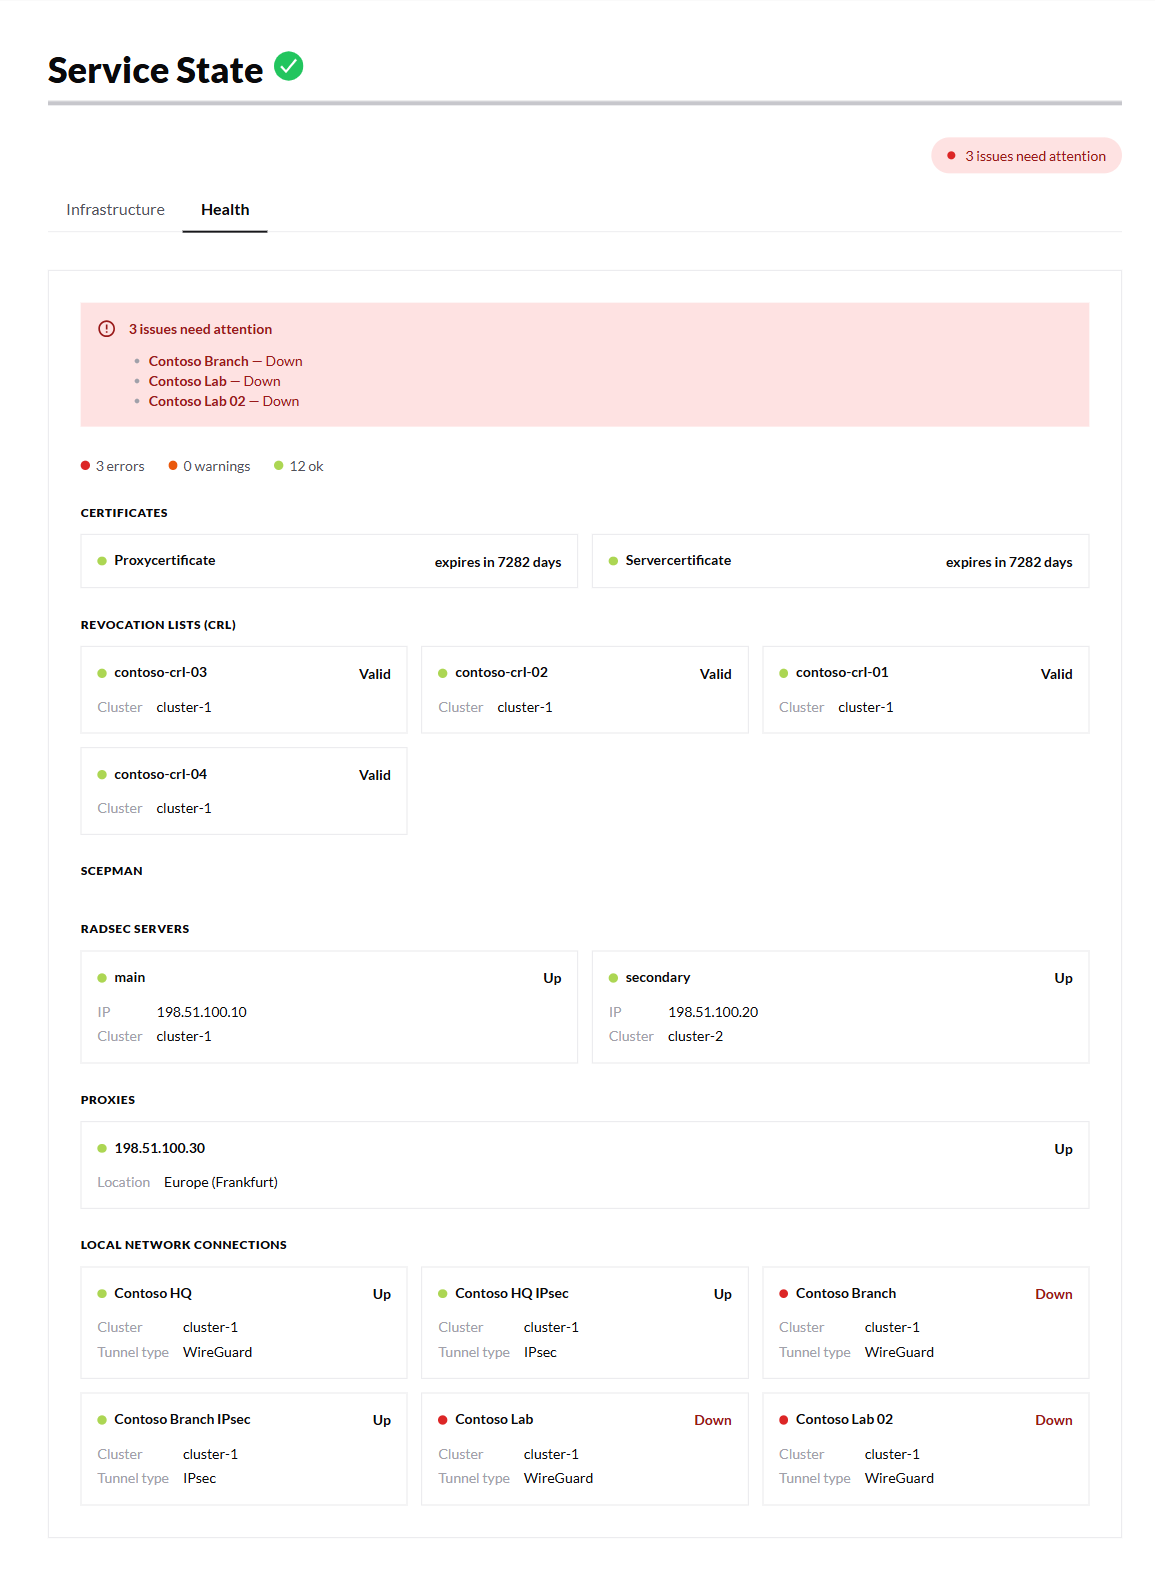
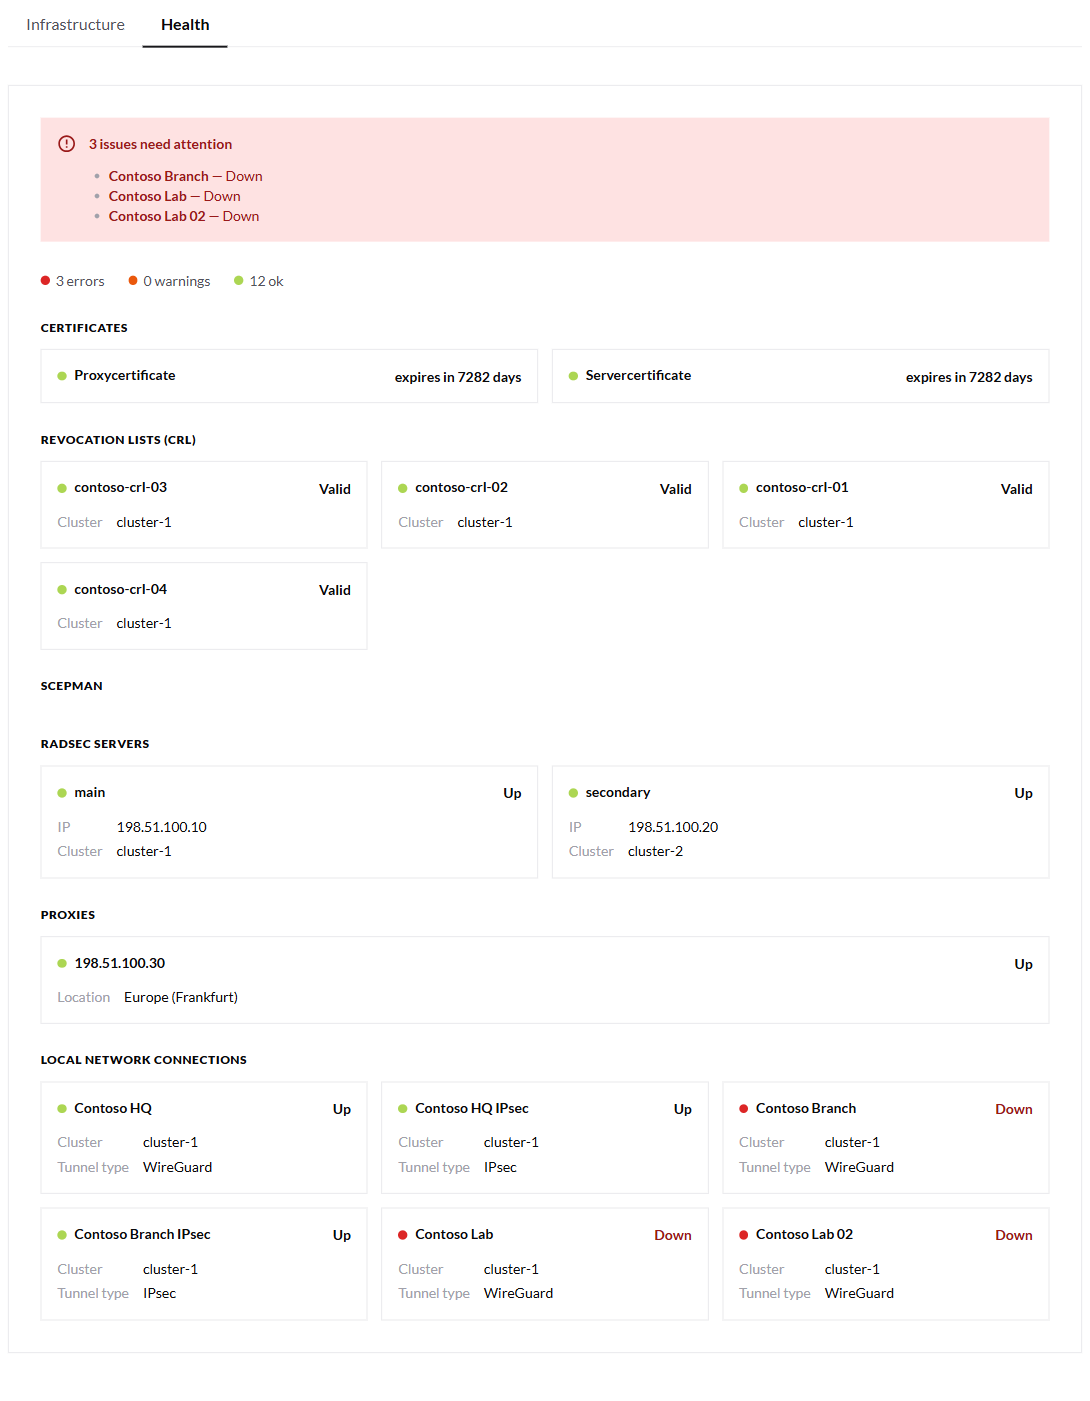
Crop Dashboard screenshots to what each section shows
- Malfunctioning node: close-up of the tunnels, red paths and tooltip
  instead of a second full Service State view.
- Health and header controls: drop the repeated heading and badge.

diff --git a/docs/admin-portal/home.md b/docs/admin-portal/home.md
@@ -36,7 +36,7 @@ By hovering over individual nodes, additional information is shown:
 * **RadSec server**: location and status
 * **Tunnel**: tunnel type (WireGuard or IPsec) and status
 
-In case a node is detected to be malfunctioning, the node along with its path to the RadSec servers is highlighted in red, and a badge above the tabs shows how many issues need attention:
+In case a node is detected to be malfunctioning, the node along with its path to the RadSec servers is highlighted in red, and a badge above the tabs shows how many issues need attention. Hover over the red node to see its details:
 
 <figure><img src="../.gitbook/assets/dashboard-infrastructure-down.png" alt=""><figcaption></figcaption></figure>
 
